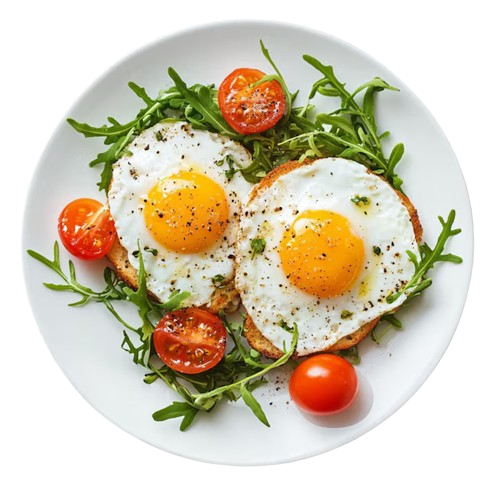
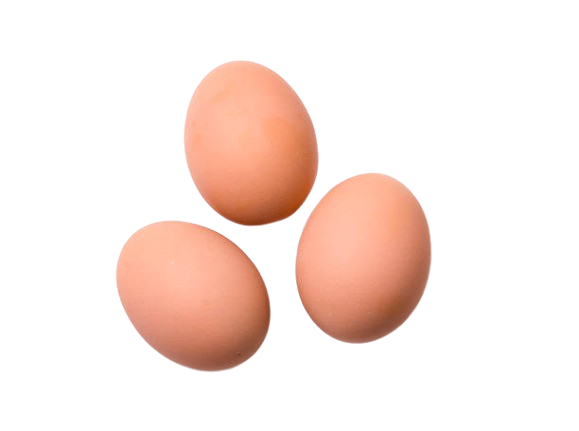
designed the onboarding allergy screen

diff --git a/lib/screens/onboarding_allergies.dart b/lib/screens/onboarding_allergies.dart
@@ -2,7 +2,7 @@ import 'package:flutter/material.dart';
 import 'package:cloud_firestore/cloud_firestore.dart';
 import 'package:firebase_auth/firebase_auth.dart';
 import 'package:flutter_gen/gen_l10n/app_localizations.dart';
-
+import '../utils/colors.dart';
 import '../utils/localization_helper.dart';
 
 class OnboardingAllergiesScreen extends StatefulWidget {
@@ -17,6 +17,17 @@ class OnboardingAllergiesScreen extends StatefulWidget {
 class _OnboardingAllergiesScreenState extends State<OnboardingAllergiesScreen> {
   List<String> selectedAllergies = [];
   final List<String> allAllergies = ["Peanuts", "Dairy", "Gluten", "Soy", "Shellfish", "Eggs", "Tree Nuts", "Sesame"];
+
+  final Map<String, String> allergyImages = {
+    "Peanuts": "assets/images/peanuts.png",
+    "Dairy": "assets/images/dairy.png",
+    "Gluten": "assets/images/gluten.png",
+    "Soy": "assets/images/soy.png",
+    "Shellfish": "assets/images/shellfish.png",
+    "Eggs": "assets/images/eggs.png",
+    "Tree Nuts": "assets/images/treenuts.png",
+    "Sesame": "assets/images/sesame.png",
+  };
 
   void _submitAllergies() async {
     User? user = FirebaseAuth.instance.currentUser;
@@ -35,35 +46,92 @@ class _OnboardingAllergiesScreenState extends State<OnboardingAllergiesScreen> {
     final localizations = AppLocalizations.of(context)!;
 
     return Scaffold(
-      appBar: AppBar(title: Text(localizations.selectAllergies)),
-      body: Column(
-        children: [
+
+      body: SafeArea(
+        child: Padding(
+        padding: const EdgeInsets.fromLTRB(16, 24, 16, 0),
+    child: Column(
+      mainAxisAlignment: MainAxisAlignment.center,
+    children: [
+    Text(
+    localizations.onboardingAllergiesMessage,
+
+    style: Theme.of(context).textTheme.bodyLarge?.copyWith(
+    color: AppColors.heading1,
+    fontSize: 24,
+    fontWeight: FontWeight.bold,
+    ),
+    ),
+    const SizedBox(height: 5),
+    Text(
+    localizations.onboardingAllergiesSubMessage,
+
+    style: Theme.of(context).textTheme.bodyMedium?.copyWith(
+    color: AppColors.heading2,
+    fontSize: 16,
+    ),
+    ),
+    const SizedBox(height: 10),
           Expanded(
-            child: ListView.builder(
-              itemCount: allAllergies.length,
-              itemBuilder: (context, index) {
-                return CheckboxListTile(
-                  title: Text(LocalizationHelper.getLocalizedString(localizations, allAllergies[index])),
-                  value: selectedAllergies.contains(allAllergies[index]),
-                  onChanged: (bool? value) {
+            child: GridView.count(
+              crossAxisCount: 2,
+              padding: EdgeInsets.all(16),
+              crossAxisSpacing: 12,
+              mainAxisSpacing: 12,
+              children: allAllergies.map((allergy) {
+                final isSelected = selectedAllergies.contains(allergy);
+                final imagePath = allergyImages[allergy];
+
+                return GestureDetector(
+                  onTap: () {
                     setState(() {
-                      if (value == true) {
-                        selectedAllergies.add(allAllergies[index]);
-                      } else {
-                        selectedAllergies.remove(allAllergies[index]);
-                      }
+                      isSelected
+                          ? selectedAllergies.remove(allergy)
+                          : selectedAllergies.add(allergy);
                     });
                   },
+                  child: Container(
+                    decoration: BoxDecoration(
+                      borderRadius: BorderRadius.circular(12),
+                      border: Border.all(
+                       color: isSelected ? AppColors.toggleActive : AppColors.toggleInactive,
+                        width: 2,
+                      ),
+                      color: isSelected ? AppColors.toggleActive.withOpacity(0.1) : AppColors.toggleInactive,
+                    ),
+                    child: Column(
+                      mainAxisAlignment: MainAxisAlignment.center,
+                      children: [
+                        if (imagePath != null)
+                          Image.asset(imagePath, width: 90, height: 90),
+                        SizedBox(height: 24),
+                        Text(
+                          LocalizationHelper.getLocalizedString(localizations, allergy),
+                          style: TextStyle(
+                            fontWeight: isSelected ? FontWeight.bold : FontWeight.normal,
+                          ),
+                        ),
+                      ],
+                    ),
+                  ),
                 );
-              },
+              }).toList(),
             ),
           ),
-          ElevatedButton(
-            onPressed: _submitAllergies,
-            child: Text(localizations.next),
+          Padding(
+            padding: const EdgeInsets.all(16.0),
+            child: ElevatedButton(
+              onPressed: _submitAllergies,
+              style: ElevatedButton.styleFrom(
+                minimumSize: Size(double.infinity, 55),
+              ),
+              child: Text(localizations.next),
+            ),
           ),
         ],
       ),
+    ),
+          ),
     );
   }
 }

diff --git a/lib/utils/colors.dart b/lib/utils/colors.dart
@@ -9,11 +9,13 @@ class AppColors {
   static const Color heading1 = Color(0xFF000000);
   static const Color heading2 = Color(0xFF716F6F);
   static const Color toggleActive = Color(0xFF51271D);
+  static const Color toggleInactive = Color(0xFFFFFFFF);
   static const Color buttonBg = Color(0x99BF8E73);
   static const Color buttonBgOnPressed = Color(0x99BF8E73);
   static const Color buttonText = Color(0xFF51271D);
   static const Color defaultLabel = Color(0xFF716F6F);
   static const Color bottomBorder = Color(0xFF716F6F);
   static const Color focusedBorder = Color(0xFF51271D);
+  static const Color transparent = Colors.transparent;
   static const Color hint = Color(0xFF716F6F);
 }

diff --git a/lib/screens/login_screen.dart b/lib/screens/login_screen.dart
@@ -122,7 +122,7 @@ class _LoginScreenState extends State<LoginScreen> {
                   color: AppColors.heading2,
                   fontSize: 16,
                 ),
-                textAlign: TextAlign.right,
+
               ),
 
               SizedBox(height: 10),
